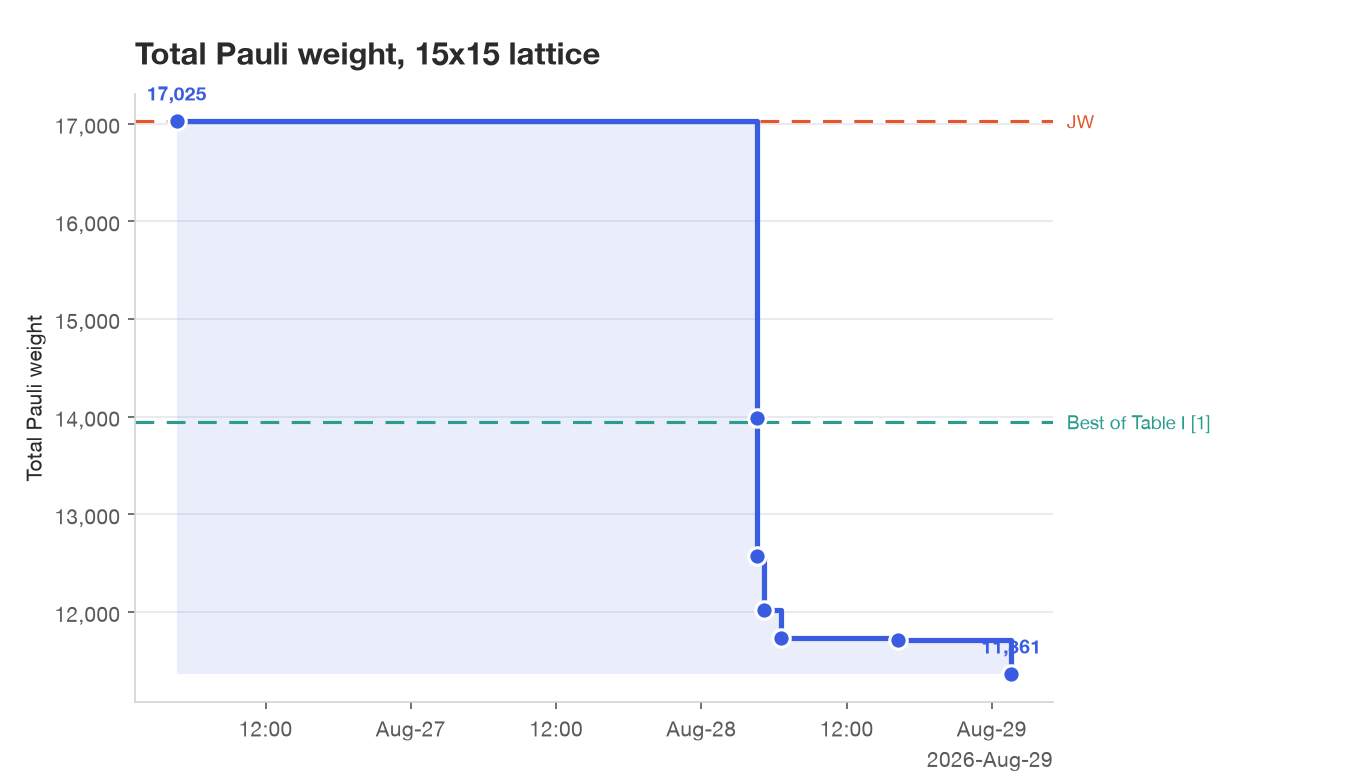
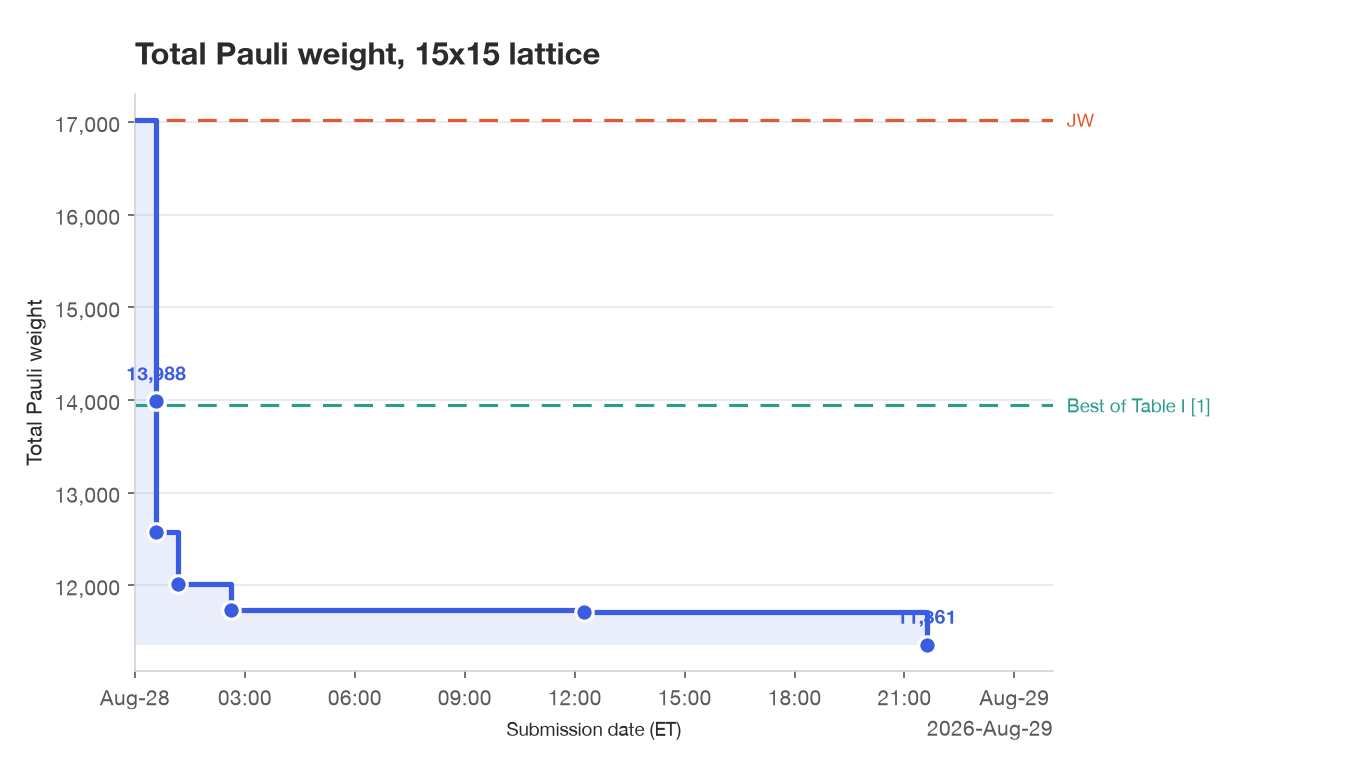
Crop progress chart to real submissions, display dates in ET
Two changes to the progress chart, both from viewing it after the last
push:

- Restrict the visible window to 2026-08-28 onward (DISPLAY_START):
  jw/parity (2026-08-26) predate any real external submission and are
  just our own canonical reference baselines, not part of the
  community-progress story this chart is telling. The step line still
  reflects true, uncropped history underneath -- it just enters the
  visible window already at whatever record it inherited (JW's own
  score), rather than showing an orphaned marker for a point that's
  scrolled off-screen.
- Display axis dates in US Eastern time, not UTC: submitted_at is
  correctly stamped in UTC, but a UTC calendar date rolls over hours
  before the ET one a maintainer actually thinks in -- a submission at
  9:36pm ET already read as "the next day" on the old UTC axis. Uses
  zoneinfo (not a fixed offset) so this stays correct across DST.

diff --git a/scripts/progress_chart.py b/scripts/progress_chart.py
@@ -22,8 +22,42 @@ this size (their own optimized result -- the external record to beat).
 """
 
 import datetime as _dt
+from zoneinfo import ZoneInfo
 
 TARGET_SIZE = 15
+
+# submitted_at is stamped in UTC (datetime.now(timezone.utc), see
+# scripts/process_inbox.py) -- correct, but a UTC calendar date rolls over
+# hours before the US Eastern one a maintainer actually thinks in, e.g. a
+# submission at 9:36pm ET already reads as "the next day" in UTC. Rather
+# than pick a per-viewer timezone (this file is generated once and
+# committed for anyone to view, so there's no one "current viewer" to ask),
+# ET is hardcoded as the project's own display convention. ZoneInfo (not a
+# fixed UTC offset) so this stays correct across DST changes.
+DISPLAY_TZ = ZoneInfo("America/New_York")
+
+# The chart's visible window starts here, not at the true first submission
+# -- jw and parity (2026-08-26) predate any real external submission and
+# are just our own canonical reference baselines, not part of the
+# community-progress story this chart tells. geo_ternary, the first
+# genuinely new submission, landed 2026-08-28 (02:37 ET); the cutoff is set
+# to that calendar day's ET midnight rather than to geo_ternary's own
+# timestamp so it isn't read as an arbitrary, submission-specific
+# cherry-pick. Set to None to show the full history again.
+DISPLAY_START = _dt.datetime(2026, 8, 28, tzinfo=DISPLAY_TZ)
+
+
+def restrict_to_window(staircase, start):
+    """staircase: [(submitted_at_iso, value, label), ...] -> only the
+    entries at or after `start` (a datetime), or everything if start is
+    None. Used to decide which record points get a marker/label drawn --
+    kept separate from compute_staircase so the staircase itself always
+    reflects true, uncropped history (the step line's height entering the
+    visible window still needs the pre-window record it inherited).
+    """
+    if start is None:
+        return staircase
+    return [(t, v, l) for t, v, l in staircase if _dt.datetime.fromisoformat(t) >= start]
 
 
 def points_at_size(dated_totals, size_index):
@@ -114,18 +148,27 @@ def render_progress_chart(points, reference_lines, out_path, title, ylabel):
             stair_times, stair_values, where="post",
             color=ACCENT, linewidth=2.5, zorder=3, solid_capstyle="round",
         )
-    if stair_times:
+    # Markers/labels only for records inside the visible window -- a record
+    # set before DISPLAY_START would otherwise get a dot/label rendered at
+    # an x-position matplotlib then clips out of view anyway, at best doing
+    # nothing and at worst (annotate's clipping heuristics are unreliable
+    # right at the edge) leaving a stray label floating at the axis border.
+    visible = restrict_to_window(staircase, DISPLAY_START)
+    visible_times = [_dt.datetime.fromisoformat(t) for t, _, _ in visible]
+    visible_values = [v for _, v, _ in visible]
+    if visible_times:
         ax.scatter(
-            stair_times, stair_values, color=ACCENT, s=70, zorder=4,
+            visible_times, visible_values, color=ACCENT, s=70, zorder=4,
             edgecolor="white", linewidth=1.5,
         )
-        # Annotate only the opening and current-best values -- with many
-        # closely-spaced records (expected as submissions accumulate), a
-        # label per point overlaps its neighbors; the two numbers that
-        # matter most for an at-a-glance read are "started at" and "now
-        # at", and the shape of the staircase already carries the rest.
-        endpoints = {0, len(staircase) - 1}
-        for i, (t, v, _) in enumerate(staircase):
+        # Annotate only the opening (of the visible window) and
+        # current-best values -- with many closely-spaced records
+        # (expected as submissions accumulate), a label per point overlaps
+        # its neighbors; the two numbers that matter most for an
+        # at-a-glance read are "started at" and "now at", and the shape of
+        # the staircase already carries the rest.
+        endpoints = {0, len(visible) - 1}
+        for i, (t, v, _) in enumerate(visible):
             if i not in endpoints:
                 continue
             ax.annotate(
@@ -149,6 +192,7 @@ def render_progress_chart(points, reference_lines, out_path, title, ylabel):
         )
 
     ax.set_title(title, fontsize=15, fontweight="bold", loc="left", pad=14)
+    ax.set_xlabel("Submission date (ET)", fontsize=9)
     ax.set_ylabel(ylabel, fontsize=10)
     ax.yaxis.set_major_formatter(mticker.FuncFormatter(lambda v, _: f"{int(v):,}"))
     ax.grid(axis="y", color="#e9ecef", linewidth=1, zorder=0)
@@ -158,14 +202,16 @@ def render_progress_chart(points, reference_lines, out_path, title, ylabel):
     for side in ("left", "bottom"):
         ax.spines[side].set_color("#d0d3d8")
 
-    locator = mdates.AutoDateLocator()
+    locator = mdates.AutoDateLocator(tz=DISPLAY_TZ)
     ax.xaxis.set_major_locator(locator)
-    ax.xaxis.set_major_formatter(mdates.ConciseDateFormatter(locator))
+    ax.xaxis.set_major_formatter(mdates.ConciseDateFormatter(locator, tz=DISPLAY_TZ))
+    if DISPLAY_START is not None:
+        ax.set_xlim(left=DISPLAY_START)
 
     # Fixed margins rather than tight_layout: the reference-line labels are
     # drawn outside the axes proper (axes-fraction x > 1), which
     # tight_layout doesn't account for -- a right margin is reserved
     # explicitly instead so they're never cut off at the figure edge.
-    fig.subplots_adjust(left=0.10, right=0.78, top=0.88, bottom=0.10)
+    fig.subplots_adjust(left=0.10, right=0.78, top=0.88, bottom=0.14)
     fig.savefig(out_path, dpi=150, facecolor="white")
     plt.close(fig)

diff --git a/tests/test_progress_chart.py b/tests/test_progress_chart.py
@@ -4,8 +4,10 @@ matplotlib wrapper -- smoke tested (does it write a real PNG) rather than
 pixel-tested.
 """
 
+import datetime
+
 import scripts.progress_chart as progress_chart
-from scripts.progress_chart import compute_staircase, points_at_size
+from scripts.progress_chart import compute_staircase, points_at_size, restrict_to_window
 
 
 # --- points_at_size ---
@@ -60,6 +62,29 @@ def test_staircase_does_not_redraw_on_an_exact_tie():
 
 def test_staircase_empty_input_gives_empty_output():
     assert compute_staircase([]) == []
+
+
+# --- restrict_to_window ---
+
+
+def test_restrict_to_window_drops_entries_before_start():
+    staircase = [
+        ("2026-08-26T00:00:00+00:00", 900, "before"),
+        ("2026-08-28T12:00:00+00:00", 500, "after"),
+    ]
+    start = datetime.datetime.fromisoformat("2026-08-28T00:00:00+00:00")
+    assert restrict_to_window(staircase, start) == [staircase[1]]
+
+
+def test_restrict_to_window_keeps_an_entry_exactly_at_start():
+    staircase = [("2026-08-28T00:00:00+00:00", 500, "on-the-dot")]
+    start = datetime.datetime.fromisoformat("2026-08-28T00:00:00+00:00")
+    assert restrict_to_window(staircase, start) == staircase
+
+
+def test_restrict_to_window_none_returns_everything_unchanged():
+    staircase = [("2026-08-26T00:00:00+00:00", 900, "before")]
+    assert restrict_to_window(staircase, None) == staircase
 
 
 # --- render_progress_chart (smoke test) ---
